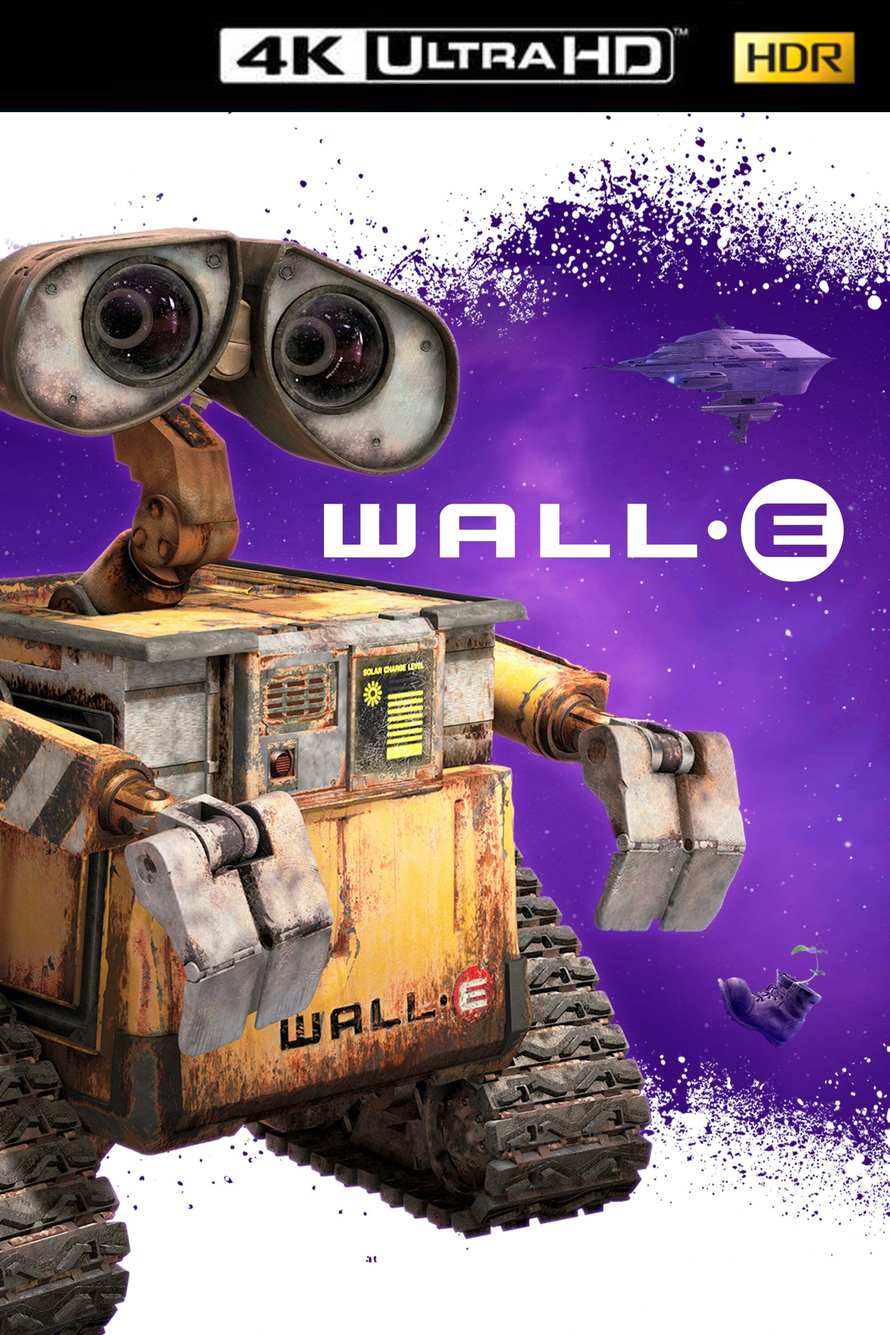
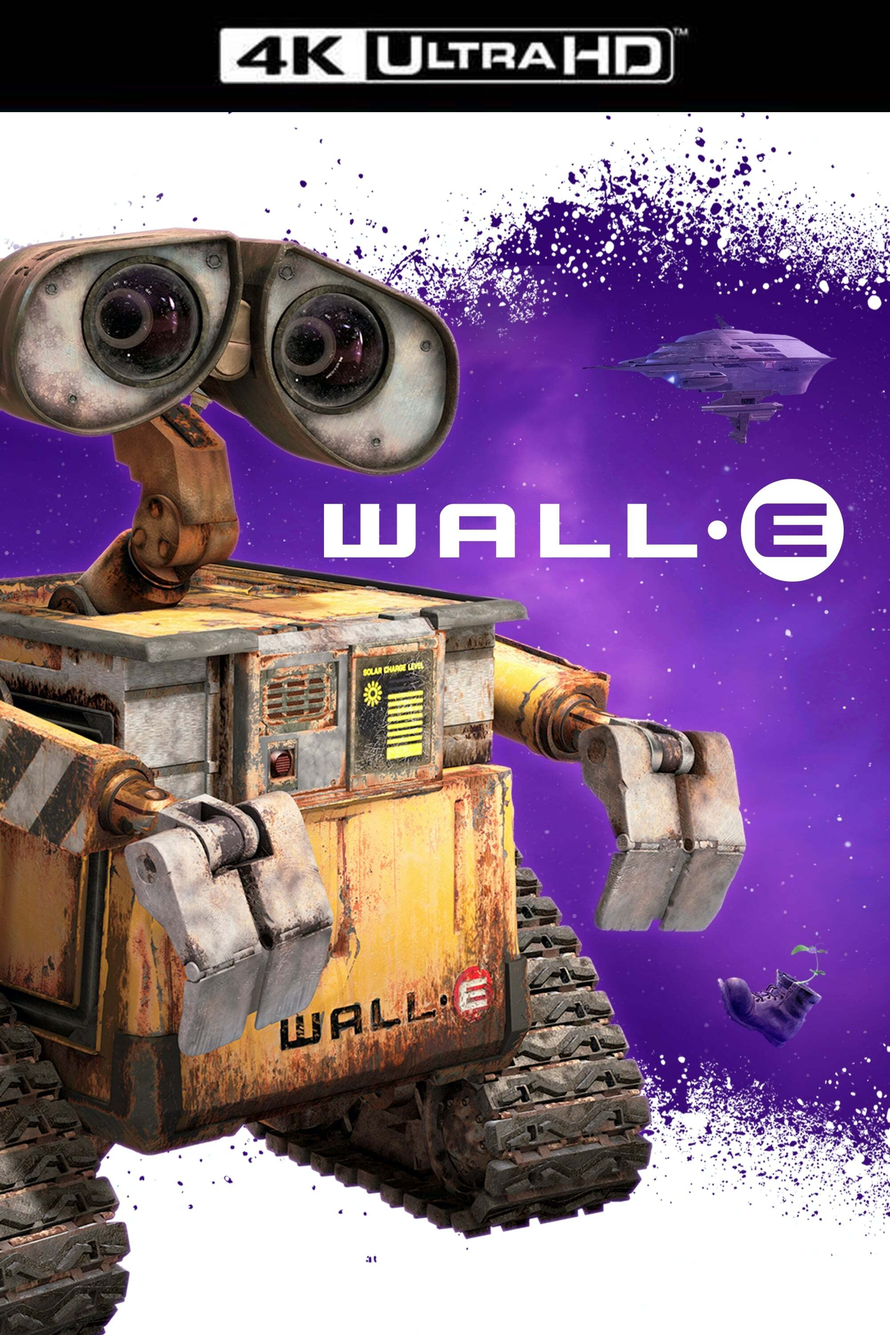
now handle based on collections

Changed region(s): [[0.806, 0.0, 0.961, 0.062]]

diff --git a/main.py b/main.py
@@ -1,4 +1,5 @@
 from plexapi.server import PlexServer
+import plexapi
 import os
 import requests
 import shutil
@@ -26,8 +27,8 @@ def AddBanner (movie, category, Poster):
 	
 
 def UploadPoster (movie, Poster):
-	movie.uploadPoster(filepath='./output/' + Poster)	
-		
+	movie.uploadPoster(filepath='./output/' + Poster)
+	print(Poster + " Uploaded")	
 def TidyUp (movie, Poster):
 	if not (config['KeepPoster']):
 		os.remove('output/' + Poster) 
@@ -42,23 +43,12 @@ def RunMain (movie, category):
 	print("Completed " + movie.title)
 
 
-
-
-
-	
 config, plex = LoadConfig()
 movies = plex.library.section(config['PlexMoviesLibrary'])
 
 
-if config['HandleHDR']:
-	for movie in movies.search(resolution="4k", hdr=False):
-		RunMain(movie, "UHD")
-	for movie in movies.search(resolution="4k", hdr=True):
-		RunMain(movie, "HDR")
+for movie in movies.search(collection=config['BlurayCollection'], resolution="4k"):
+	RunMain(movie, "UHD")
 
-if not config['HandleHDR']:
-	for movie in movies.search(resolution="4k"):
-		RunMain(movie, "UHD")
-
-for movie in movies.search(resolution="1080p"):
+for movie in movies.search(collection=config['BlurayCollection'], resolution="1080p"):
 	RunMain(movie, "Bluray")

diff --git a/README.md b/README.md
@@ -9,11 +9,11 @@ Requires:
   `python3 main.py`
 # Function
 
-This script is designed to add bluray, 4k and 4k hdr banners onto movie posters in plex. I doubt many people will want this, but it's of mild interest ot me.
+This script is designed to add bluray and 4k  banners onto movie posters in plex. I doubt many people will want this, but it's of mild interest ot me.
 
 ## How it works
 
-  - This script uses the plex API to search for 1080p, 4k and 4kHDR content
+  - This script uses the plex API to search for 1080p and 4k content in a given library + collection
   - The CURRENT poster being used in plex is then download
   - The corresponding bluray header is applied
   - The newly generated poster can then be uploaded automagically to plex (This is configurable)
@@ -36,16 +36,15 @@ PlexToken: "AnExampleToken"		(https://support.plex.tv/articles/204059436-finding
 
 PlexMoviesLibrary: "Blurays" 		(The library containing all of your Blurays, Script is not clever enough to know if the file is actually bluray or not, it will apply to any eligable movies in the library)
 
-HandleHDR: True				(4k HDR content will be given the `assets/HDR.png` header. Setting to false will ignore this and all 4k content will be given the `assets/UHD.png` header)
-
 UploadPoster: False			(Replace the current poster associated with the given movie in plex)
 
 KeepPoster: True			(Keep the generated posters in the `output` directory. This is useful to check content before uploading)
+
+BlurayCollection: "Blurays"		(The Plex collection in the provided library that contains your Blurays)
 ```
 
 # FAQ
 
-  - How can I exclude non-bluray movies in my Library? 		This tool is not clever, It will assume that everything in the configured library is a Bluray and there is currently not a way to exclude files
   - How do I choose which poster is used for the new art?	MOGNO will use whatever poster is currently in plex. Setting the desired image
   - Can I use this for TV Shows?				Not yet. I do intend to add support for TV shows as I have a large number of TV Shows on bluray. It is more complex due to the existence of the `Season` entities with thier own posters
   - I am seeing timeouts when performing the poster operations?	This can happen when trying to run this against a host not on your network , for best results please make sure you are on the same LAN and use the servers IP address
